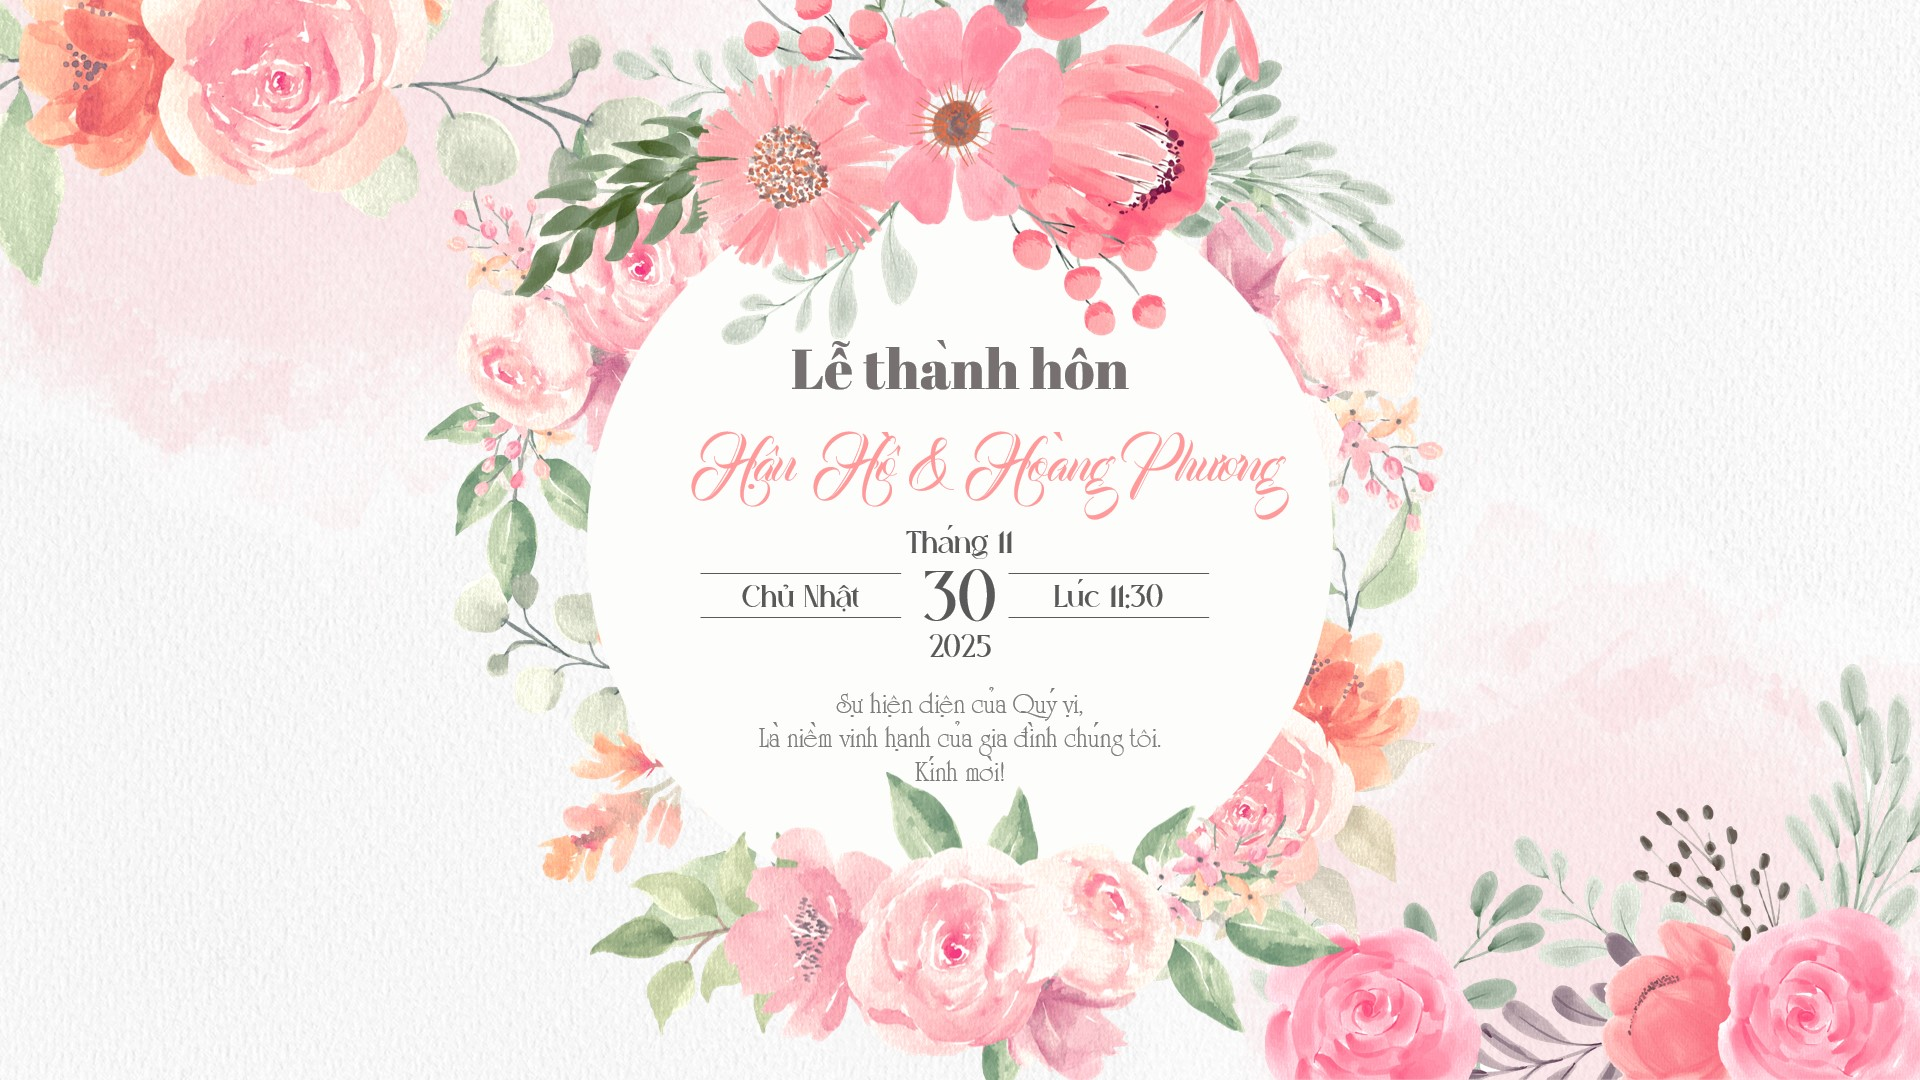
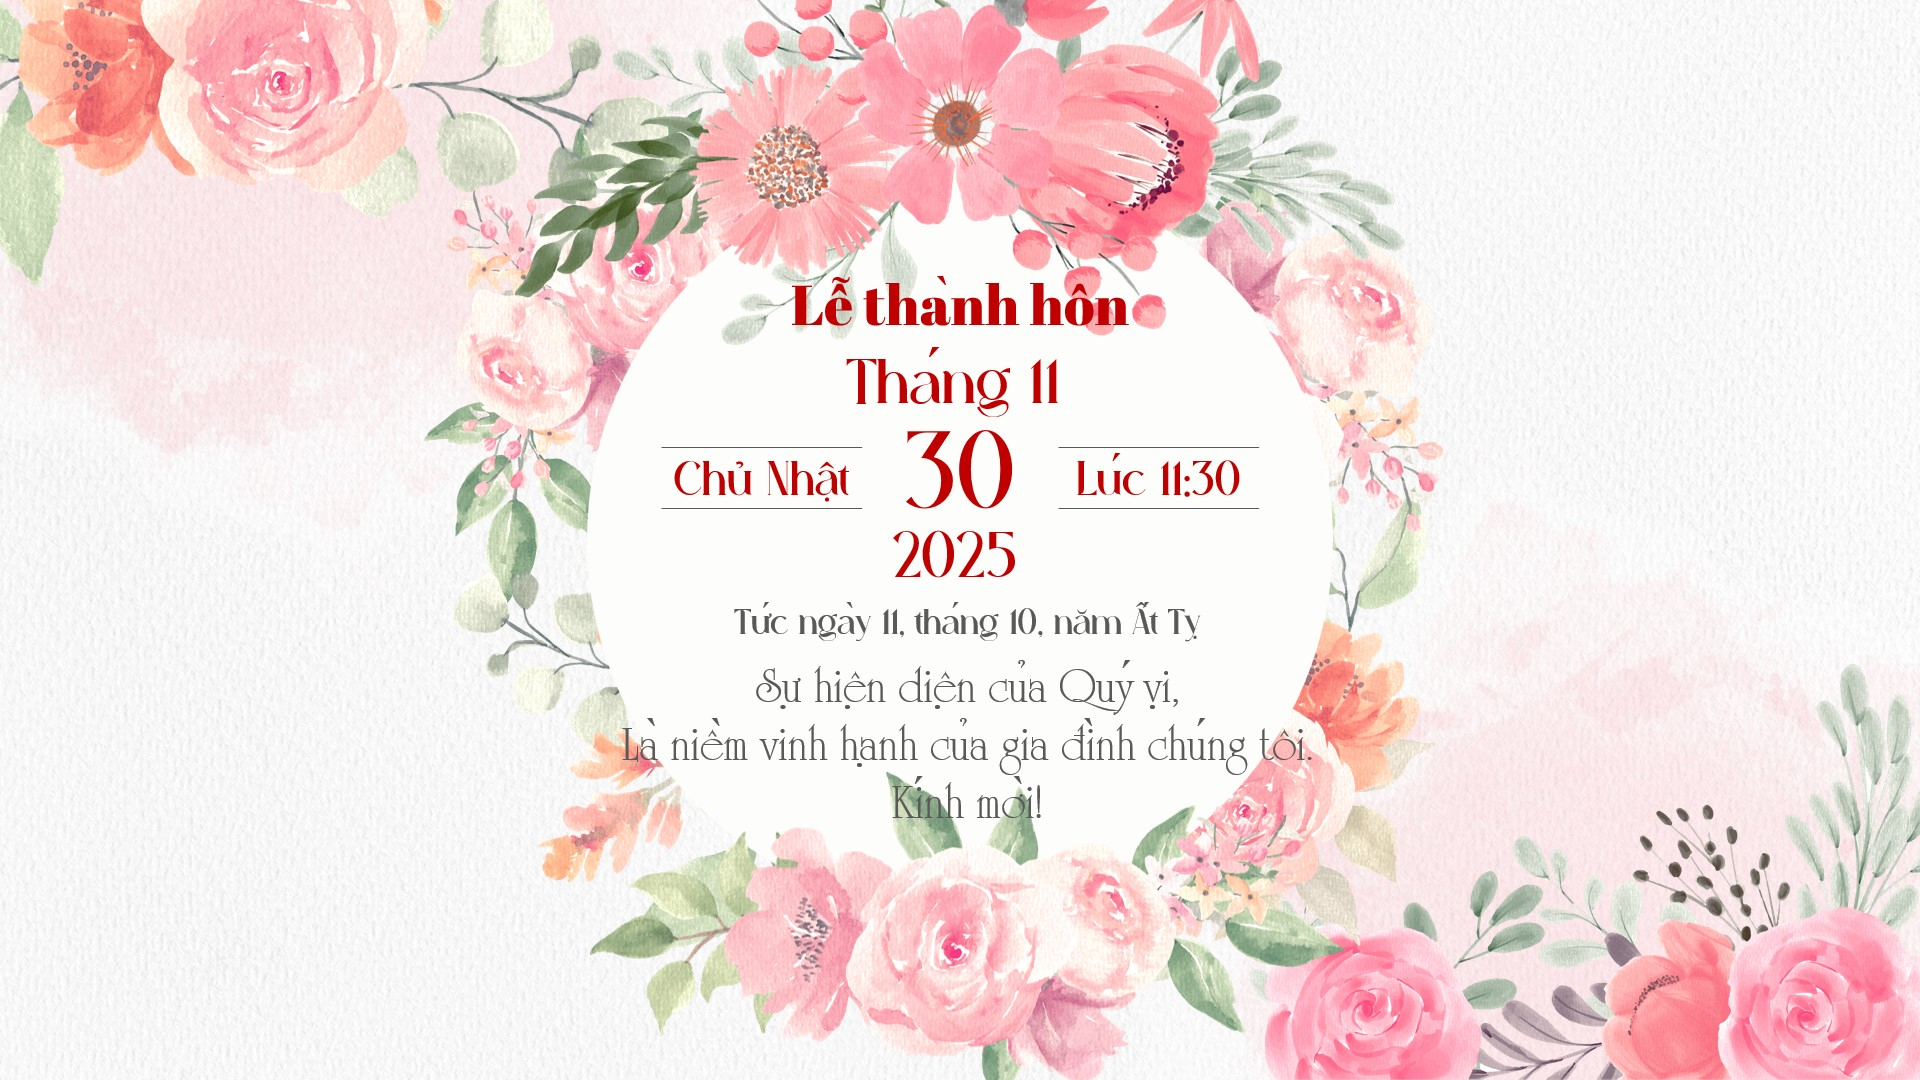
Add files via upload

Changed region(s): [[0.3125, 0.2444, 0.6875, 0.7639]]

diff --git a/index.html b/index.html
@@ -17,7 +17,7 @@
     // Chờ 2 giây rồi mở rèm
     setTimeout(() => {
       document.querySelector('.curtain').classList.add('open');
-    }, 200);
+    }, 500);
   });
 </script>
 
@@ -65,7 +65,6 @@
   <div class="invitation">
     <h1>Save the date!</h1>
     <p class="introduction">WE ARE GETTING MARRIED</p>
-    <h3 class="bride-groom">Hậu Hồ ♥ Hoàng Phương</h3>
     <img src="img/img2.jpg" class="banner" />
     <img src="img/img1.jpg" class="banner" />
   </div>
@@ -81,7 +80,7 @@
     </section>
     <!-- Section: Datetime -->
     <section id="datetime">
-        <h2>Thời gian</h2>
+        <h2>Thời gian diễn ra lễ cưới</h2>
         <img src="img/datetime.jpg" class="datetime" />
       </section>
     <!-- Section: Mừng cưới -->
@@ -103,7 +102,7 @@
     <div class="map-frame">
       <iframe 
         src="https://www.google.com/maps/embed?pb=!1m18!1m12!1m3!1d3026.5002904822877!2d107.57805957369962!3d11.257667488921829!2m3!1f0!2f0!3f0!3m2!1i1024!2i768!4f13.1!3m3!1m2!1s0x31746b0019b933db%3A0xdc49f6463ab96f4e!2zTmjDoCBNYXkgw5p0IELDrG5o!5e1!3m2!1svi!2s!4v1753181526160!5m2!1svi!2s" 
-        width="75%" height="500" style="border:0; border-radius:15px;" 
+        width="100%" height="700px" style="border:0; border-radius:15px;" 
         allowfullscreen loading="lazy" referrerpolicy="no-referrer-when-downgrade">
       </iframe>
     </div>
@@ -138,28 +137,6 @@ menuItems.forEach(item => {
 });
   </script>
 
-  <!-- Script: Gửi lời chúc bằng Google Apps Script -->
-  <script>
-    const scriptURL = 'https://script.google.com/macros/s/YOUR_SCRIPT_ID_HERE/exec'; // Thay bằng ID thực
-    const form = document.forms['wish-form'];
-    const messagesList = document.getElementById('messages');
-
-    form.addEventListener('submit', e => {
-      e.preventDefault();
-      const formData = new FormData(form);
-
-      fetch(scriptURL, { method: 'POST', body: formData })
-        .then(response => {
-          document.getElementById('status').innerText = "🎉 Gửi thành công!";
-          form.reset();
-          loadWishes();
-        })
-        .catch(error => {
-          document.getElementById('status').innerText = "🎉 Gửi thành công!";
-        });
-    });
-
-  </script>
   <script>
   document.addEventListener('DOMContentLoaded', function () {
     const menuItems = document.querySelectorAll('.menu-bar a');

diff --git a/css/style.css b/css/style.css
@@ -33,7 +33,6 @@ h2 {
     color: #56a5ef;
     text-shadow: 2px 2px 4px #aaa;
     text-align: center;
-    animation: shake 0.9s infinite;
 }
 
 @keyframes shake {
@@ -159,7 +158,7 @@ p {
   position: fixed;
   top: 0;
   width: 100%;
-  background: rgba(0, 0, 0, 0.6);
+  background: rgba(250, 250, 250, 0.621);
   padding: 1em 0;
   z-index: 10;
 }
@@ -174,7 +173,7 @@ p {
 }
 
 .menu-bar a {
-  color: white;
+  color: rgb(0, 0, 0);
   text-decoration: none;
   font-size: 0.6em;
   font-weight: bold;
